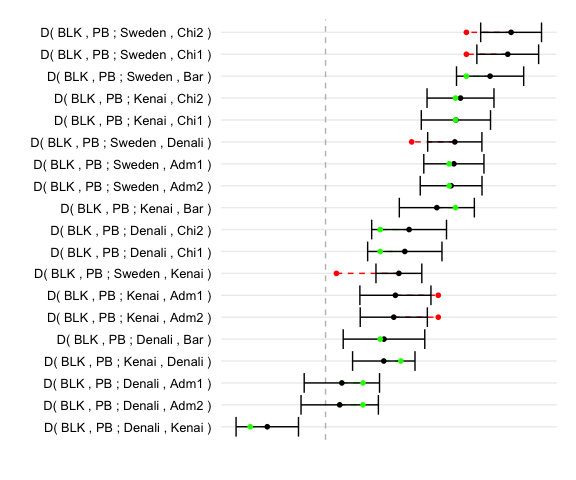
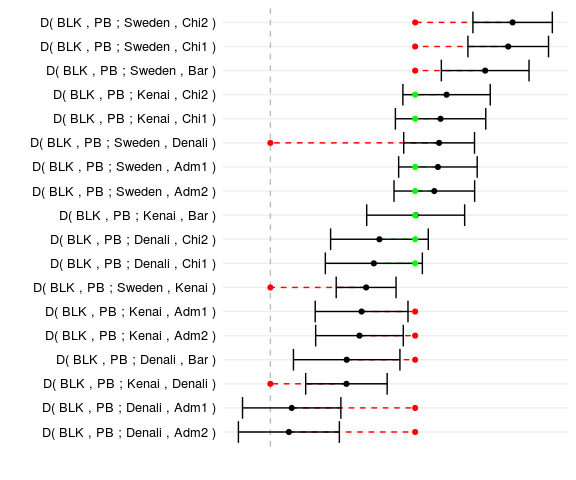
Final stuff.

diff --git a/README.md b/README.md
@@ -2,11 +2,11 @@
 Admixture Graph Manipulation and Fitting
 ========================================
 
-The package provides functionality to analyse and test admixture graphs against the f statisticsdescribed in the paper [Ancient Admixture in Human History](http://tinyurl.com/o5a4kr4), Patternson *et al.*, Genetics, Vol. 192, 1065--1093, 2012.
+The package provides functionality to analyse and test admixture graphs against the \(f\) statistics described in the paper [Ancient Admixture in Human History](http://tinyurl.com/o5a4kr4), Patternson *et al.*, Genetics, Vol. 192, 1065--1093, 2012.
 
-The f statistics --- f2, f3, and f4 --- extract information about correlations between gene frequencies in different populations (or single diploid genome samples), which can be informative about patterns of gene flow between these populations in form of admixture events. If a graph is constructed as a hypothesis for the relationship between the populations, equations for the expected values of the f statistics can be extracted, as functions of edge lenghs — representing genetic drift — and admixture proportions.
+The \(f\) statistics --- \(f2\), \(f3\), and \(f4\) --- extract information about correlations between gene frequencies in different populations (or single diploid genome samples), which can be informative about patterns of gene flow between these populations in form of admixture events. If a graph is constructed as a hypothesis for the relationship between the populations, equations for the expected values of the \(f\) statistics can be extracted, as functions of edge lenghs --- representing genetic drift --- and admixture proportions.
 
-This package provides functions for extracting these equations and for fitting them against computed f statistics. It does not currently provide functions for computing the f statistics — for that we refer to the [ADMIXTOOLS](https://github.com/DReichLab/AdmixTools) software package.
+This package provides functions for extracting these equations and for fitting them against computed \(f\) statistics. It does not currently provide functions for computing the \(f\) statistics --- for that we refer to the [ADMIXTOOLS](https://github.com/DReichLab/AdmixTools) software package.
 
 Example
 -------
@@ -15,34 +15,33 @@ Below is a quick example of how the package can be used. The example uses data f
 
 The BLK sample is the black bear, the PB sample is a polar bear, and the rest are brown bears.
 
-I have taken the D statistics from Table 1 in the paper and have the statistics:
+I have taken the \(f\) statistics from Table 1 in the paper:
 
 ``` r
 data(bears)
 bears
-#>      W  X      Y      Z       D Z.value
-#> 1  BLK PB Sweden   Adm1  0.1258    12.8
-#> 2  BLK PB  Kenai   Adm1  0.0685     5.9
-#> 3  BLK PB Denali   Adm1  0.0160     1.3
-#> 4  BLK PB Sweden   Adm2  0.1231    12.2
-#> 5  BLK PB  Kenai   Adm2  0.0669     6.1
-#> 6  BLK PB Denali   Adm2  0.0139     1.1
-#> 7  BLK PB Sweden    Bar  0.1613    14.7
-#> 8  BLK PB  Kenai    Bar  0.1091     8.9
-#> 9  BLK PB Denali    Bar  0.0573     4.3
-#> 10 BLK PB Sweden   Chi1  0.1786    17.7
-#> 11 BLK PB  Kenai   Chi1  0.1278    11.3
-#> 12 BLK PB Denali   Chi1  0.0777     6.4
-#> 13 BLK PB Sweden   Chi2  0.1819    18.3
-#> 14 BLK PB  Kenai   Chi2  0.1323    12.1
-#> 15 BLK PB Denali   Chi2  0.0819     6.7
-#> 16 BLK PB Sweden Denali  0.1267    14.3
-#> 17 BLK PB  Kenai Denali  0.0571     5.6
-#> 18 BLK PB Sweden  Kenai  0.0719     9.6
-#> 19 BLK PB Denali  Kenai -0.0571    -5.6
+#>      W  X      Y      Z      D Z.value
+#> 1  BLK PB Sweden   Adm1 0.1258    12.8
+#> 2  BLK PB  Kenai   Adm1 0.0685     5.9
+#> 3  BLK PB Denali   Adm1 0.0160     1.3
+#> 4  BLK PB Sweden   Adm2 0.1231    12.2
+#> 5  BLK PB  Kenai   Adm2 0.0669     6.1
+#> 6  BLK PB Denali   Adm2 0.0139     1.1
+#> 7  BLK PB Sweden    Bar 0.1613    14.7
+#> 8  BLK PB  Kenai    Bar 0.1091     8.9
+#> 9  BLK PB Denali    Bar 0.0573     4.3
+#> 10 BLK PB Sweden   Chi1 0.1786    17.7
+#> 11 BLK PB  Kenai   Chi1 0.1278    11.3
+#> 12 BLK PB Denali   Chi1 0.0777     6.4
+#> 13 BLK PB Sweden   Chi2 0.1819    18.3
+#> 14 BLK PB  Kenai   Chi2 0.1323    12.1
+#> 15 BLK PB Denali   Chi2 0.0819     6.7
+#> 16 BLK PB Sweden Denali 0.1267    14.3
+#> 17 BLK PB  Kenai Denali 0.0571     5.6
+#> 18 BLK PB Sweden  Kenai 0.0719     9.6
 ```
 
-The D column is the f4(W,X;Y,Z) statistic and the Z column is the Z-values obtained from a blocked jacknife (see Patterson *et al.* for details).
+The `D` column is the \(f4(W,X;Y,Z)\) statistic and the `Z` column is the \(Z\)-values obtained from a blocked jacknife (see Patterson *et al.* for details).
 
 From the statistics we can see that the ABC bears (Adm, Bar and Chi) are closer related to the polar bears compared to the other brown bears. The paper explains this with gene flow from polar bears into the ABC bears and going further out from there, but we can also explain this by several waves of admixture from ancestral polar bears into brown bears:
 
@@ -99,6 +98,9 @@ admixtures <- admixture_proportions(c(admix_props("bc_a1", "pb_a1", "ABC", "a"),
                                 
 bears_graph <- agraph(leaves, inner_nodes, edges, admixtures)
 plot(bears_graph, show_inner_node_labels = TRUE, show_admixture_labels = TRUE)
+#> fminbnd:  Exiting: Maximum number of function evaluations has been exceeded
+#>          - increase MaxFunEvals option.
+#>          Current function value: 2097.43464986477
 ```
 
 ![](README-graph-1.png)
@@ -106,7 +108,7 @@ plot(bears_graph, show_inner_node_labels = TRUE, show_admixture_labels = TRUE)
 Fitting a graph to data
 -----------------------
 
-The graph makes predictions on how the f4 statistics should look. If you have the *neldermead* package installed you can fit graph parameters to observed D statistics. This is done using the *fit\_graph* function
+The graph makes predictions on how the \(f4\) statistics should look. The graph parameters can be fit to observed statistics using the `fit_graph` function:
 
 ``` r
 fit <- fit_graph(bears, bears_graph)
@@ -117,21 +119,20 @@ fit
 #> Minimal error: 0.001490682
 ```
 
-The object it returns contains an environment that contains the fitted parameters and a data frame containing the original data together with an extra column, graph\_f4, containing the fitted values.
-
-You can get the fitted values by calling the *summary* function.
+You can get detailsabout the fit by calling the `summary.agraph_fit` function:
 
 ``` r
 summary(fit)
 #> 
-#> Call:
-#> fit_graph(bears, bears_graph)
+#> Call: fit_graph(bears, bears_graph)
 #> 
-#> Optimal admix variables:
+#> After fixing {a, b, c, d} none of the remaining proportions {} affect the quality of the fit!
+#> 
+#> Optimal admixture proportions:
 #>          a          b          c          d 
 #> 0.03985233 0.91958225 0.99999900 0.56905827 
 #> 
-#> Optimal edge variables:
+#> Optimal edge lengths:
 #>        edge_R_BLK       edge_R_PBBB       edge_PBBB_z   edge_PBBB_pb_a4 
 #>       0.000000000       0.000000000       0.000000000       0.104668543 
 #>     edge_Adm_Adm1     edge_Adm_Adm2     edge_Chi_Chi1     edge_Chi_Chi2 
@@ -149,10 +150,10 @@ summary(fit)
 #>       edge_x_a3_x       edge_y_a4_y 
 #>       0.000000000       0.000000000 
 #> 
-#> Solution to a homogeneous system of edges with the optimal admix variables:
-#> (Adding any such solution to the optimal one will not affect the error.)
+#> Solution to a homogeneous system of edge lengths with the optimal admixture proportions:
+#> Adding any such solution to the optimal one will not affect the error.
 #> 
-#> Free edge variables:
+#> Free edge lengths:
 #> edge_R_BLK
 #> edge_R_PBBB
 #> edge_PBBB_z
@@ -180,7 +181,7 @@ summary(fit)
 #> edge_x_a3_x
 #> edge_y_a4_y
 #> 
-#> Bounded edge variables:
+#> Bounded edge lengths:
 #> edge_PBBB_pb_a4 = 0
 #> edge_pb_a2_pb_a1 = 0
 #> edge_pb_a3_pb_a2 = 0
@@ -190,59 +191,7 @@ summary(fit)
 #> 0.001490682
 ```
 
-This function also returns the fitted values as a list, so you can assign the result to an object if you need to access it later.
-
-You can also get the fitted parameters using the generic *coef* or *coefficients* funcions
-
-``` r
-coef(fit)
-#>                 a                 b                 c                 d 
-#>       0.039852331       0.919582246       0.999999000       0.569058269 
-#>        edge_R_BLK       edge_R_PBBB       edge_PBBB_z   edge_PBBB_pb_a4 
-#>       0.000000000       0.000000000       0.000000000       0.104668543 
-#>     edge_Adm_Adm1     edge_Adm_Adm2     edge_Chi_Chi1     edge_Chi_Chi2 
-#>       0.000000000       0.000000000       0.000000000       0.000000000 
-#>       edge_BC_Bar       edge_BC_Chi      edge_ABC_Adm    edge_ABC_bc_a1 
-#>       0.000000000       0.000000000       0.000000000       0.000000000 
-#>     edge_x_Denali     edge_x_abc_a2      edge_y_Kenai       edge_y_x_a3 
-#>       0.000000000       0.000000000       0.000000000       0.000000000 
-#>     edge_z_Sweden       edge_z_y_a4     edge_pb_a1_PB  edge_pb_a1_bc_a1 
-#>       0.000000000       0.000000000       0.000000000       0.000000000 
-#>  edge_pb_a2_pb_a1 edge_pb_a2_abc_a2  edge_pb_a3_pb_a2   edge_pb_a3_x_a3 
-#>       1.355528458       0.000000000       0.014259138       0.000000000 
-#>  edge_pb_a4_pb_a3   edge_pb_a4_y_a4     edge_bc_a1_BC   edge_abc_a2_ABC 
-#>       0.008994011       0.000000000       0.000000000       0.000000000 
-#>       edge_x_a3_x       edge_y_a4_y 
-#>       0.000000000       0.000000000
-```
-
-To get the fitted predictions, together with the data used for fitting, use the *fitted* function.
-
-``` r
-fitted(fit)
-#>      W  X      Y      Z       D Z.value    graph_f4
-#> 1  BLK PB Sweden   Adm1  0.1258    12.8  0.12677500
-#> 2  BLK PB  Kenai   Adm1  0.0685     5.9  0.06721250
-#> 3  BLK PB Denali   Adm1  0.0160     1.3  0.01311250
-#> 4  BLK PB Sweden   Adm2  0.1231    12.2  0.12677500
-#> 5  BLK PB  Kenai   Adm2  0.0669     6.1  0.06721250
-#> 6  BLK PB Denali   Adm2  0.0139     1.1  0.01311250
-#> 7  BLK PB Sweden    Bar  0.1613    14.7  0.18084167
-#> 8  BLK PB  Kenai    Bar  0.1091     8.9  0.12127917
-#> 9  BLK PB Denali    Bar  0.0573     4.3  0.06717917
-#> 10 BLK PB Sweden   Chi1  0.1786    17.7  0.18084167
-#> 11 BLK PB  Kenai   Chi1  0.1278    11.3  0.12127917
-#> 12 BLK PB Denali   Chi1  0.0777     6.4  0.06717917
-#> 13 BLK PB Sweden   Chi2  0.1819    18.3  0.18084167
-#> 14 BLK PB  Kenai   Chi2  0.1323    12.1  0.12127917
-#> 15 BLK PB Denali   Chi2  0.0819     6.7  0.06717917
-#> 16 BLK PB Sweden Denali  0.1267    14.3  0.11366250
-#> 17 BLK PB  Kenai Denali  0.0571     5.6  0.05410000
-#> 18 BLK PB Sweden  Kenai  0.0719     9.6  0.05956250
-#> 19 BLK PB Denali  Kenai -0.0571    -5.6 -0.05410000
-```
-
-You can make a plot of the fit against the data using the *plot* function.
+You can make a plot of the fit against the data by calling the `plot.agraph_fit` function:
 
 ``` r
 plot(fit)
@@ -250,6 +199,8 @@ plot(fit)
 
 ![](README-fitted_data-1.png)
 
-The plot shows the data f4 statistics with error bars (in black) plus the predicted values from the graph.
+The plot shows the onserved \(f4\) statistics with error bars (in black) plus the predicted values from the graph.
 
-The result of this is a ggplot2 object that you can modify by adding ggplot2 commands in the usual way.
+The result of this is a `ggplot2` object that you can modify by adding `ggplot2` commands in the usual way.
+
+Read the vignette `admixturegraph` for more examples.

diff --git a/NEWS.md b/NEWS.md
@@ -1,13 +1,3 @@
+# Version 1.0.0
 
-# Version 0.4.1
-
- * Fixed bug that caused crossing edges for admixture events in plotting (Issue #3).
- * Added bears to data/
- * Added syntactic suggar to graph construction
- * Fix plotting bug (Issue #4)
- * Wrote an interface to fitted data objects using the generic functions usually used for fitted models.
- * Added code for plotting fitted data
- * Added predict() function.
- * Added function for filtering data based on the leaves in a tree and for mapping between samples and populations (leaves).
- * New optimisation code based on solving linear systems for those variables that are linear.
- 
+ * A version ready for publication.

diff --git a/cran-comments.md b/cran-comments.md
@@ -1,0 +1,9 @@
+### Test environments
+* i686-pc-linux-gnu, R 3.3.0 (Supposedly Educational)
+* x86_64-w64-mingw32, R 3.2.2 (Fire Safety)
+
+### R CMD check results
+No ERRORS, WARNINGS or NOTES.
+I have a couple of functions with examples that take more than 5 seconds.
+Some of them are essential.
+Altogether running them should still take only a couple of minutes.
